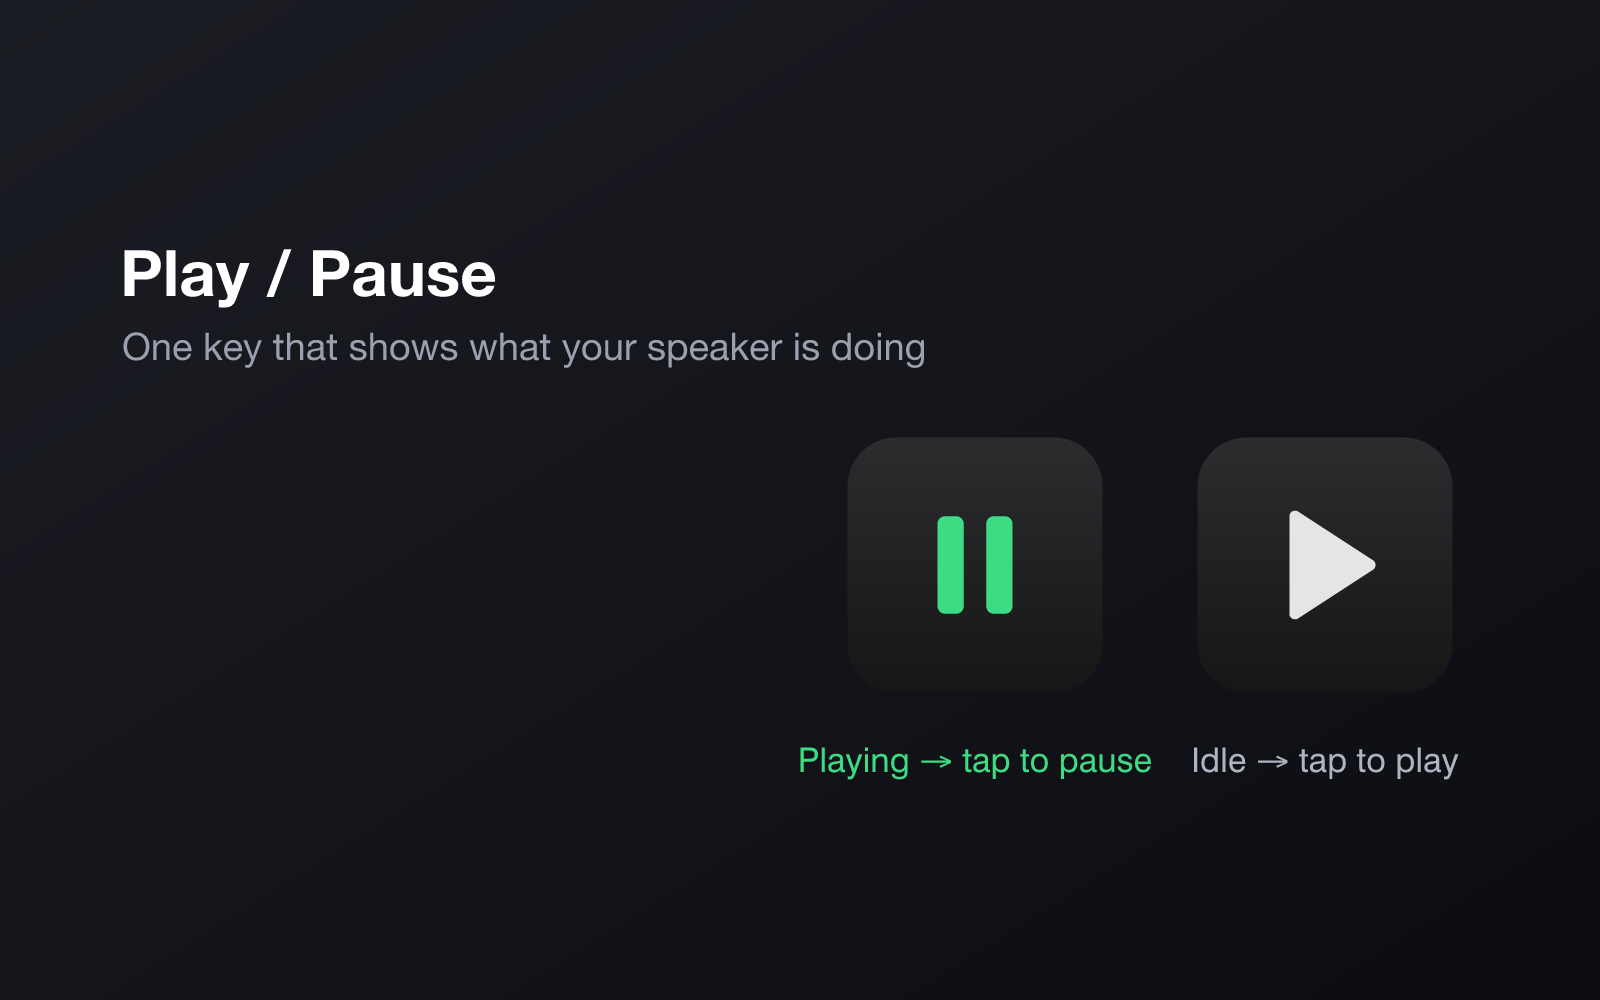
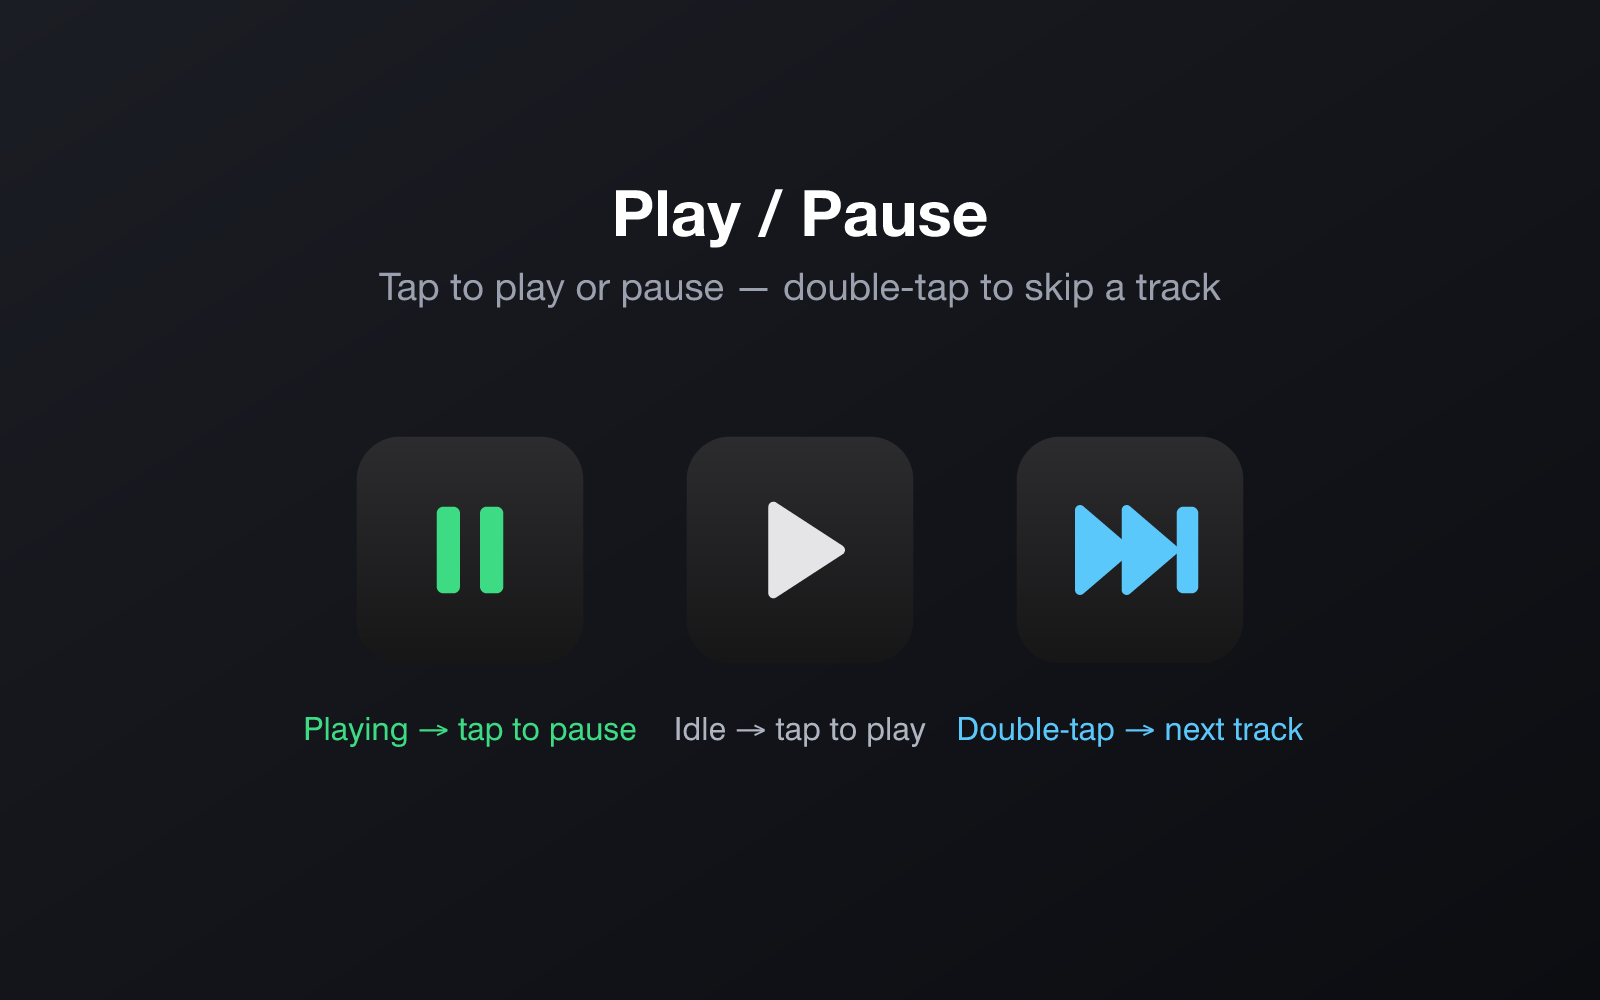
Show double-press-to-skip in Play/Pause marketing preview
Add a third "next track" key (blue skip glyph) to the Play/Pause preview
and update the subtitle/caption to advertise double-tap to skip.

diff --git a/README.md b/README.md
@@ -40,7 +40,7 @@ can't be reached.
 
 ### Live play/pause state
 
-![Play / Pause key — pause glyph while playing, play glyph when idle](marketing/preview-playpause.png)
+![Play / Pause key — pause glyph while playing, play glyph when idle, double-tap to skip to the next track](marketing/preview-playpause.png)
 
 The Play / Pause key reads the speaker's transport state on the same poll loop as
 the volume keys, so the icon stays correct even when playback is started or